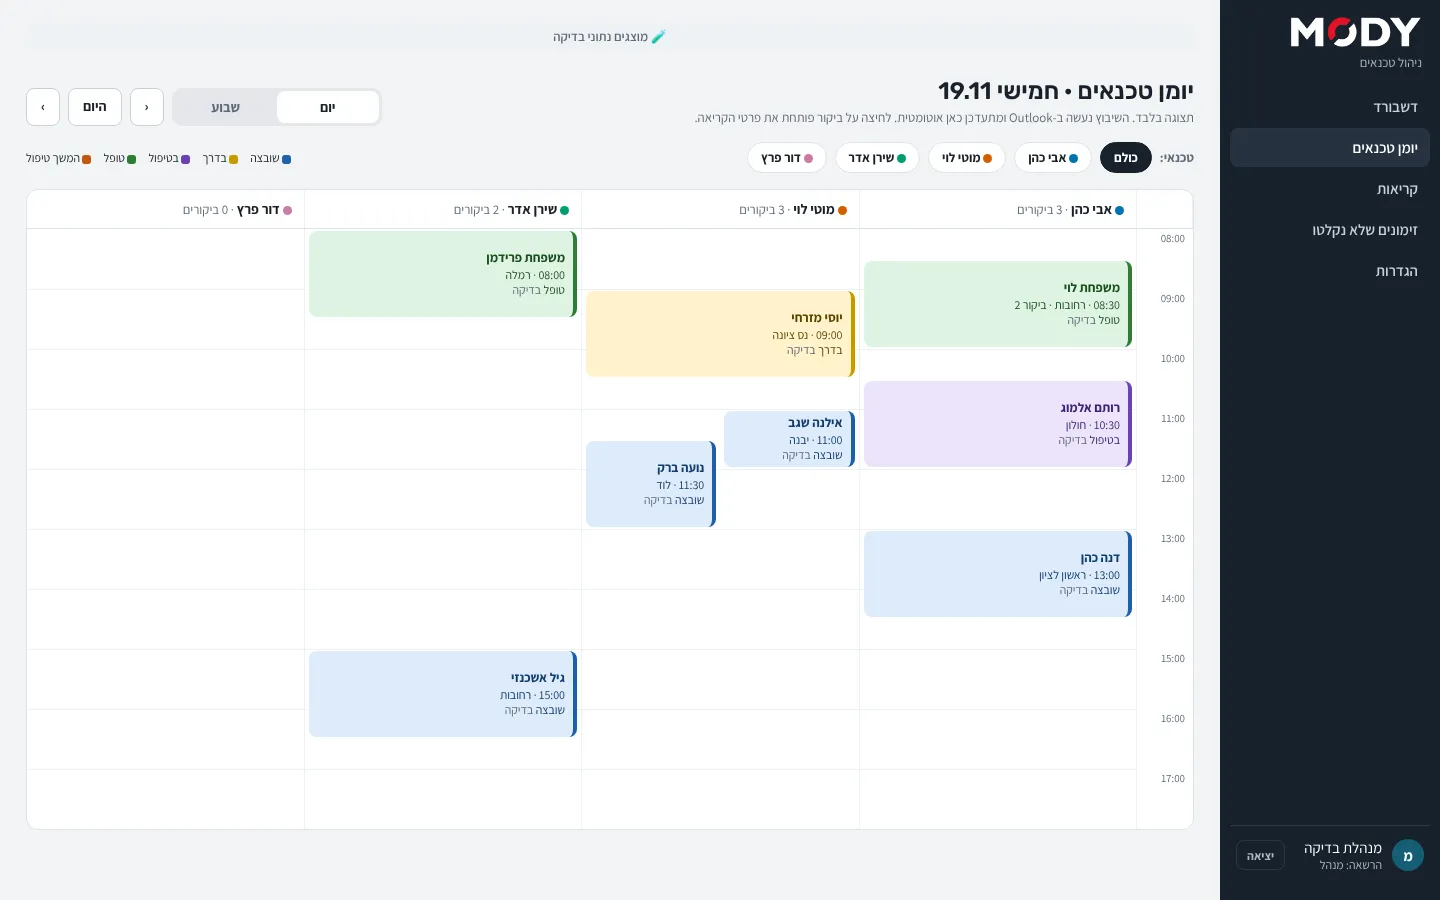
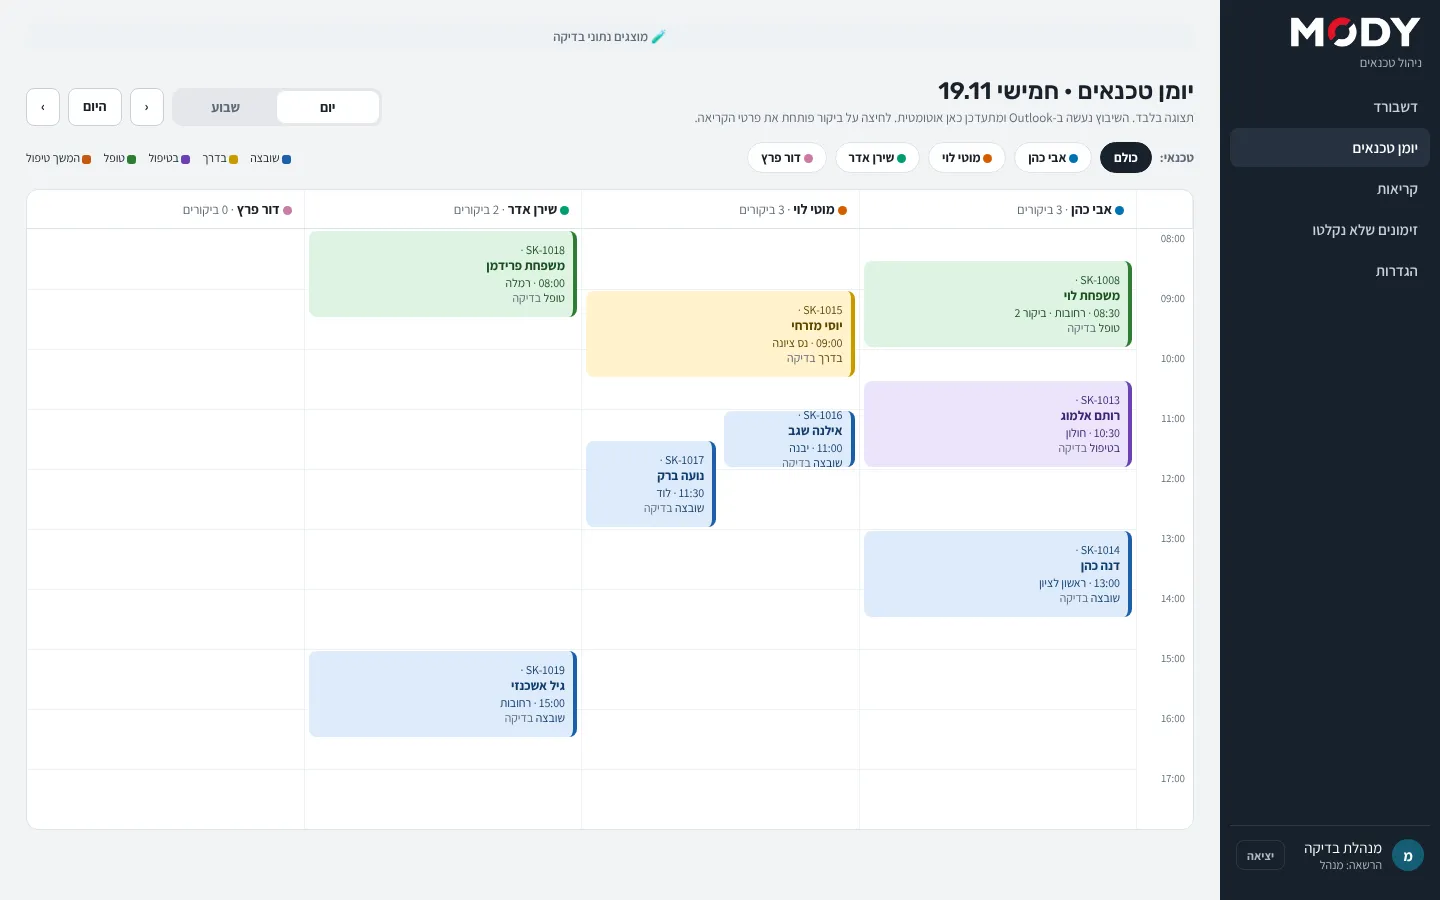
Tech calendar: request number and quiet test marker via opt-in props; nav test expectations
Claude-Session: https://claude.ai/code/session_011xmGFSYArFUjcD6VdGUhh6

diff --git a/components/office/CalendarWeekView.tsx b/components/office/CalendarWeekView.tsx
@@ -1,6 +1,6 @@
 import Link from "next/link";
 import { VISIT_STATUSES } from "@/components/ui/StatusPill";
-import { TEST_DATA_LABEL } from "@/components/ui/TestBadge";
+import { TEST_DATA_LABEL, TestBadge } from "@/components/ui/TestBadge";
 import { dayName, ddmm, visitCountLabel } from "@/features/calendar/data/dates";
 import type { CalendarVisit, OfficeCalendarWeek } from "@/features/calendar/data/types";
 import type { IsoDate } from "@/features/data-access/common";
@@ -17,7 +17,8 @@ import { TimeRange } from "@/components/ui/TimeRange";
 // opacity .85), so it keeps the status colours' contrast. Addition: a 🧪 mark on test visits
 // (SIM-15, D47; the blocks are too narrow for the badge), read as "נתוני בדיקה".
 
-function WeekBlock({ v, href }: { v: CalendarVisit; href: string }) {
+/** `quietTest`: the quiet "בדיקה" marker (D74) instead of 🧪; `showRequest`: the request number (D89 (d)). Defaults keep the old look. */
+function WeekBlock({ v, href, quietTest, showRequest }: { v: CalendarVisit; href: string; quietTest: boolean; showRequest: boolean }) {
   const s = VISIT_STATUSES[v.status];
   return (
     <Link
@@ -32,11 +33,25 @@ function WeekBlock({ v, href }: { v: CalendarVisit; href: string }) {
         <TimeRange start={v.start} end={v.end} />
       </b>{" "}
       · {v.customerName}
-      {v.isTest && (
-        <>
-          <span aria-hidden="true"> 🧪</span>
-          <span className="sr-only"> · {TEST_DATA_LABEL}</span>
-        </>
+      {v.isTest &&
+        (quietTest ? (
+          <>
+            {" "}
+            <TestBadge />
+          </>
+        ) : (
+          <>
+            <span aria-hidden="true"> 🧪</span>
+            <span className="sr-only"> · {TEST_DATA_LABEL}</span>
+          </>
+        ))}
+      {showRequest && (
+        <span style={{ display: "block" }}>
+          מס׳ פנייה{" "}
+          <bdi dir="ltr" className="num">
+            {v.req}
+          </bdi>
+        </span>
       )}
       <span style={{ display: "block" }}>
         {v.city} · {v.technician.name} · {s.label}
@@ -50,12 +65,16 @@ export function CalendarWeekView({
   today,
   dayHref,
   visitHref,
+  quietTest = false,
+  showRequest = false,
 }: {
   week: OfficeCalendarWeek;
   today: IsoDate;
   /** The day view of a date. */
   dayHref: (date: IsoDate) => string;
   visitHref: (visit: VisitRef) => string;
+  quietTest?: boolean;
+  showRequest?: boolean;
 }) {
   return (
     <>
@@ -77,7 +96,7 @@ export function CalendarWeekView({
                   <ul className="ocal-wk-list">
                     {d.visits.items.map((v) => (
                       <li key={calVisitKey(v)}>
-                        <WeekBlock v={v} href={visitHref({ req: v.req, n: v.n })} />
+                        <WeekBlock v={v} href={visitHref({ req: v.req, n: v.n })} quietTest={quietTest} showRequest={showRequest} />
                       </li>
                     ))}
                   </ul>

diff --git a/components/office/CalendarDayView.tsx b/components/office/CalendarDayView.tsx
@@ -21,7 +21,7 @@ const H = 60;
 /** The demo's minimum block height. */
 const MIN_BLOCK = 36;
 
-function DayBlock({ v, from, href }: { v: PlacedCalendarVisit; from: number; href: string }) {
+function DayBlock({ v, from, href, showRequest }: { v: PlacedCalendarVisit; from: number; href: string; showRequest: boolean }) {
   const s = VISIT_STATUSES[v.status];
   const start = toMinutes(v.start);
   const end = toMinutes(v.end);
@@ -48,6 +48,14 @@ function DayBlock({ v, from, href }: { v: PlacedCalendarVisit; from: number; hre
       }}
     >
       <span className="ev-body">
+        {showRequest && (
+          <>
+            <bdi dir="ltr" className="num">
+              {v.req}
+            </bdi>{" "}
+            ·{" "}
+          </>
+        )}
         <b>{v.customerName}</b> <span className="num">{v.start}</span> · {v.city}
         {v.n > 1 && ` · ביקור ${v.n}`} <br />
         {s.label}
@@ -66,7 +74,16 @@ function DayBlock({ v, from, href }: { v: PlacedCalendarVisit; from: number; hre
   );
 }
 
-export function CalendarDayView({ day, visitHref }: { day: OfficeCalendarDay; visitHref: (visit: VisitRef) => string }) {
+/** `showRequest`: the request number first on each block (D89 (d)); the default look is unchanged. */
+export function CalendarDayView({
+  day,
+  visitHref,
+  showRequest = false,
+}: {
+  day: OfficeCalendarDay;
+  visitHref: (visit: VisitRef) => string;
+  showRequest?: boolean;
+}) {
   const lanes = day.lanes;
   const { from, to } = hourRange(lanes.flatMap((l) => l.visits.items));
   const hours = Math.round((to - from) / 60);
@@ -109,7 +126,7 @@ export function CalendarDayView({ day, visitHref }: { day: OfficeCalendarDay; vi
                     <div key={i} className="hr" style={{ top: (i + 1) * H }} aria-hidden="true" />
                   ))}
                   {l.visits.items.map((v) => (
-                    <DayBlock key={calVisitKey(v)} v={v} from={from} href={visitHref({ req: v.req, n: v.n })} />
+                    <DayBlock key={calVisitKey(v)} v={v} from={from} href={visitHref({ req: v.req, n: v.n })} showRequest={showRequest} />
                   ))}
                 </div>
               ))}

diff --git a/tests/e2e/office-calls-list.spec.ts b/tests/e2e/office-calls-list.spec.ts
@@ -135,8 +135,9 @@ test.describe("the calls pages: navigation and server-side guards", () => {
   test("the navigation of D57 (1) and D60 (4) built so far; Customer Service lands on \"קריאות\" (S-01)", () => {
     expect(OFFICE_CALLS_PATH).toBe("/office/calls");
     expect(officeCallPath("48 213/x")).toBe("/office/calls/48%20213%2Fx");
-    for (const role of ["mgr", "creator"]) expect(realOfficeNav(role).map((i) => i.label)).toEqual(["דשבורד", "קריאות", "זימונים שלא נקלטו", "הגדרות"]);
+    for (const role of ["mgr", "creator"]) expect(realOfficeNav(role).map((i) => i.label)).toEqual(["דשבורד", "יומן טכנאים", "קריאות", "זימונים שלא נקלטו", "הגדרות"]);
     expect(realOfficeNav("cs")).toEqual([
+      { key: "cal", label: "יומן טכנאים", href: "/office/calendar" },
       { key: "calls", label: "קריאות", href: "/office/calls" },
       { key: "unparsed", label: "זימונים שלא נקלטו", href: "/office/unparsed" },
     ]);

diff --git a/tests/e2e/user-management-ui.spec.ts b/tests/e2e/user-management-ui.spec.ts
@@ -175,12 +175,14 @@ test.describe("the real office navigation and the settings routes", () => {
     for (const role of ["mgr", "creator"] as const) {
       expect(realOfficeNav(role)).toEqual([
         { key: "analytics", label: "דשבורד", href: "/office" },
+        { key: "cal", label: "יומן טכנאים", href: "/office/calendar" },
         { key: "calls", label: "קריאות", href: "/office/calls" },
         { key: "unparsed", label: "זימונים שלא נקלטו", href: "/office/unparsed" },
         { key: "settings", label: "הגדרות", href: OFFICE_SETTINGS_USERS_PATH },
       ]);
     }
     expect(realOfficeNav("cs")).toEqual([
+      { key: "cal", label: "יומן טכנאים", href: "/office/calendar" },
       { key: "calls", label: "קריאות", href: "/office/calls" },
       { key: "unparsed", label: "זימונים שלא נקלטו", href: "/office/unparsed" },
     ]);

diff --git a/app/(office)/office/calendar/page.tsx b/app/(office)/office/calendar/page.tsx
@@ -88,8 +88,8 @@ export default async function OfficeTechCalendarPage({ searchParams }: { searchP
       <TestDataBanner />
       <CalendarToolbar title={title} views={views} prev={prev} todayHref={href({ date: SKELETON_TODAY })} next={next} technicians={techChips} />
       <div className="max-[600px]:hidden">
-        {day && <CalendarDayView day={day} visitHref={visitHref} />}
-        {week && <CalendarWeekView week={week} today={SKELETON_TODAY} dayHref={dayHref} visitHref={visitHref} />}
+        {day && <CalendarDayView day={day} visitHref={visitHref} showRequest />}
+        {week && <CalendarWeekView week={week} today={SKELETON_TODAY} dayHref={dayHref} visitHref={visitHref} quietTest showRequest />}
         {week && week.total === 0 && <div className="empty">אין ביקורים בשבוע הזה</div>}
       </div>
       <div className="min-[601px]:hidden">
